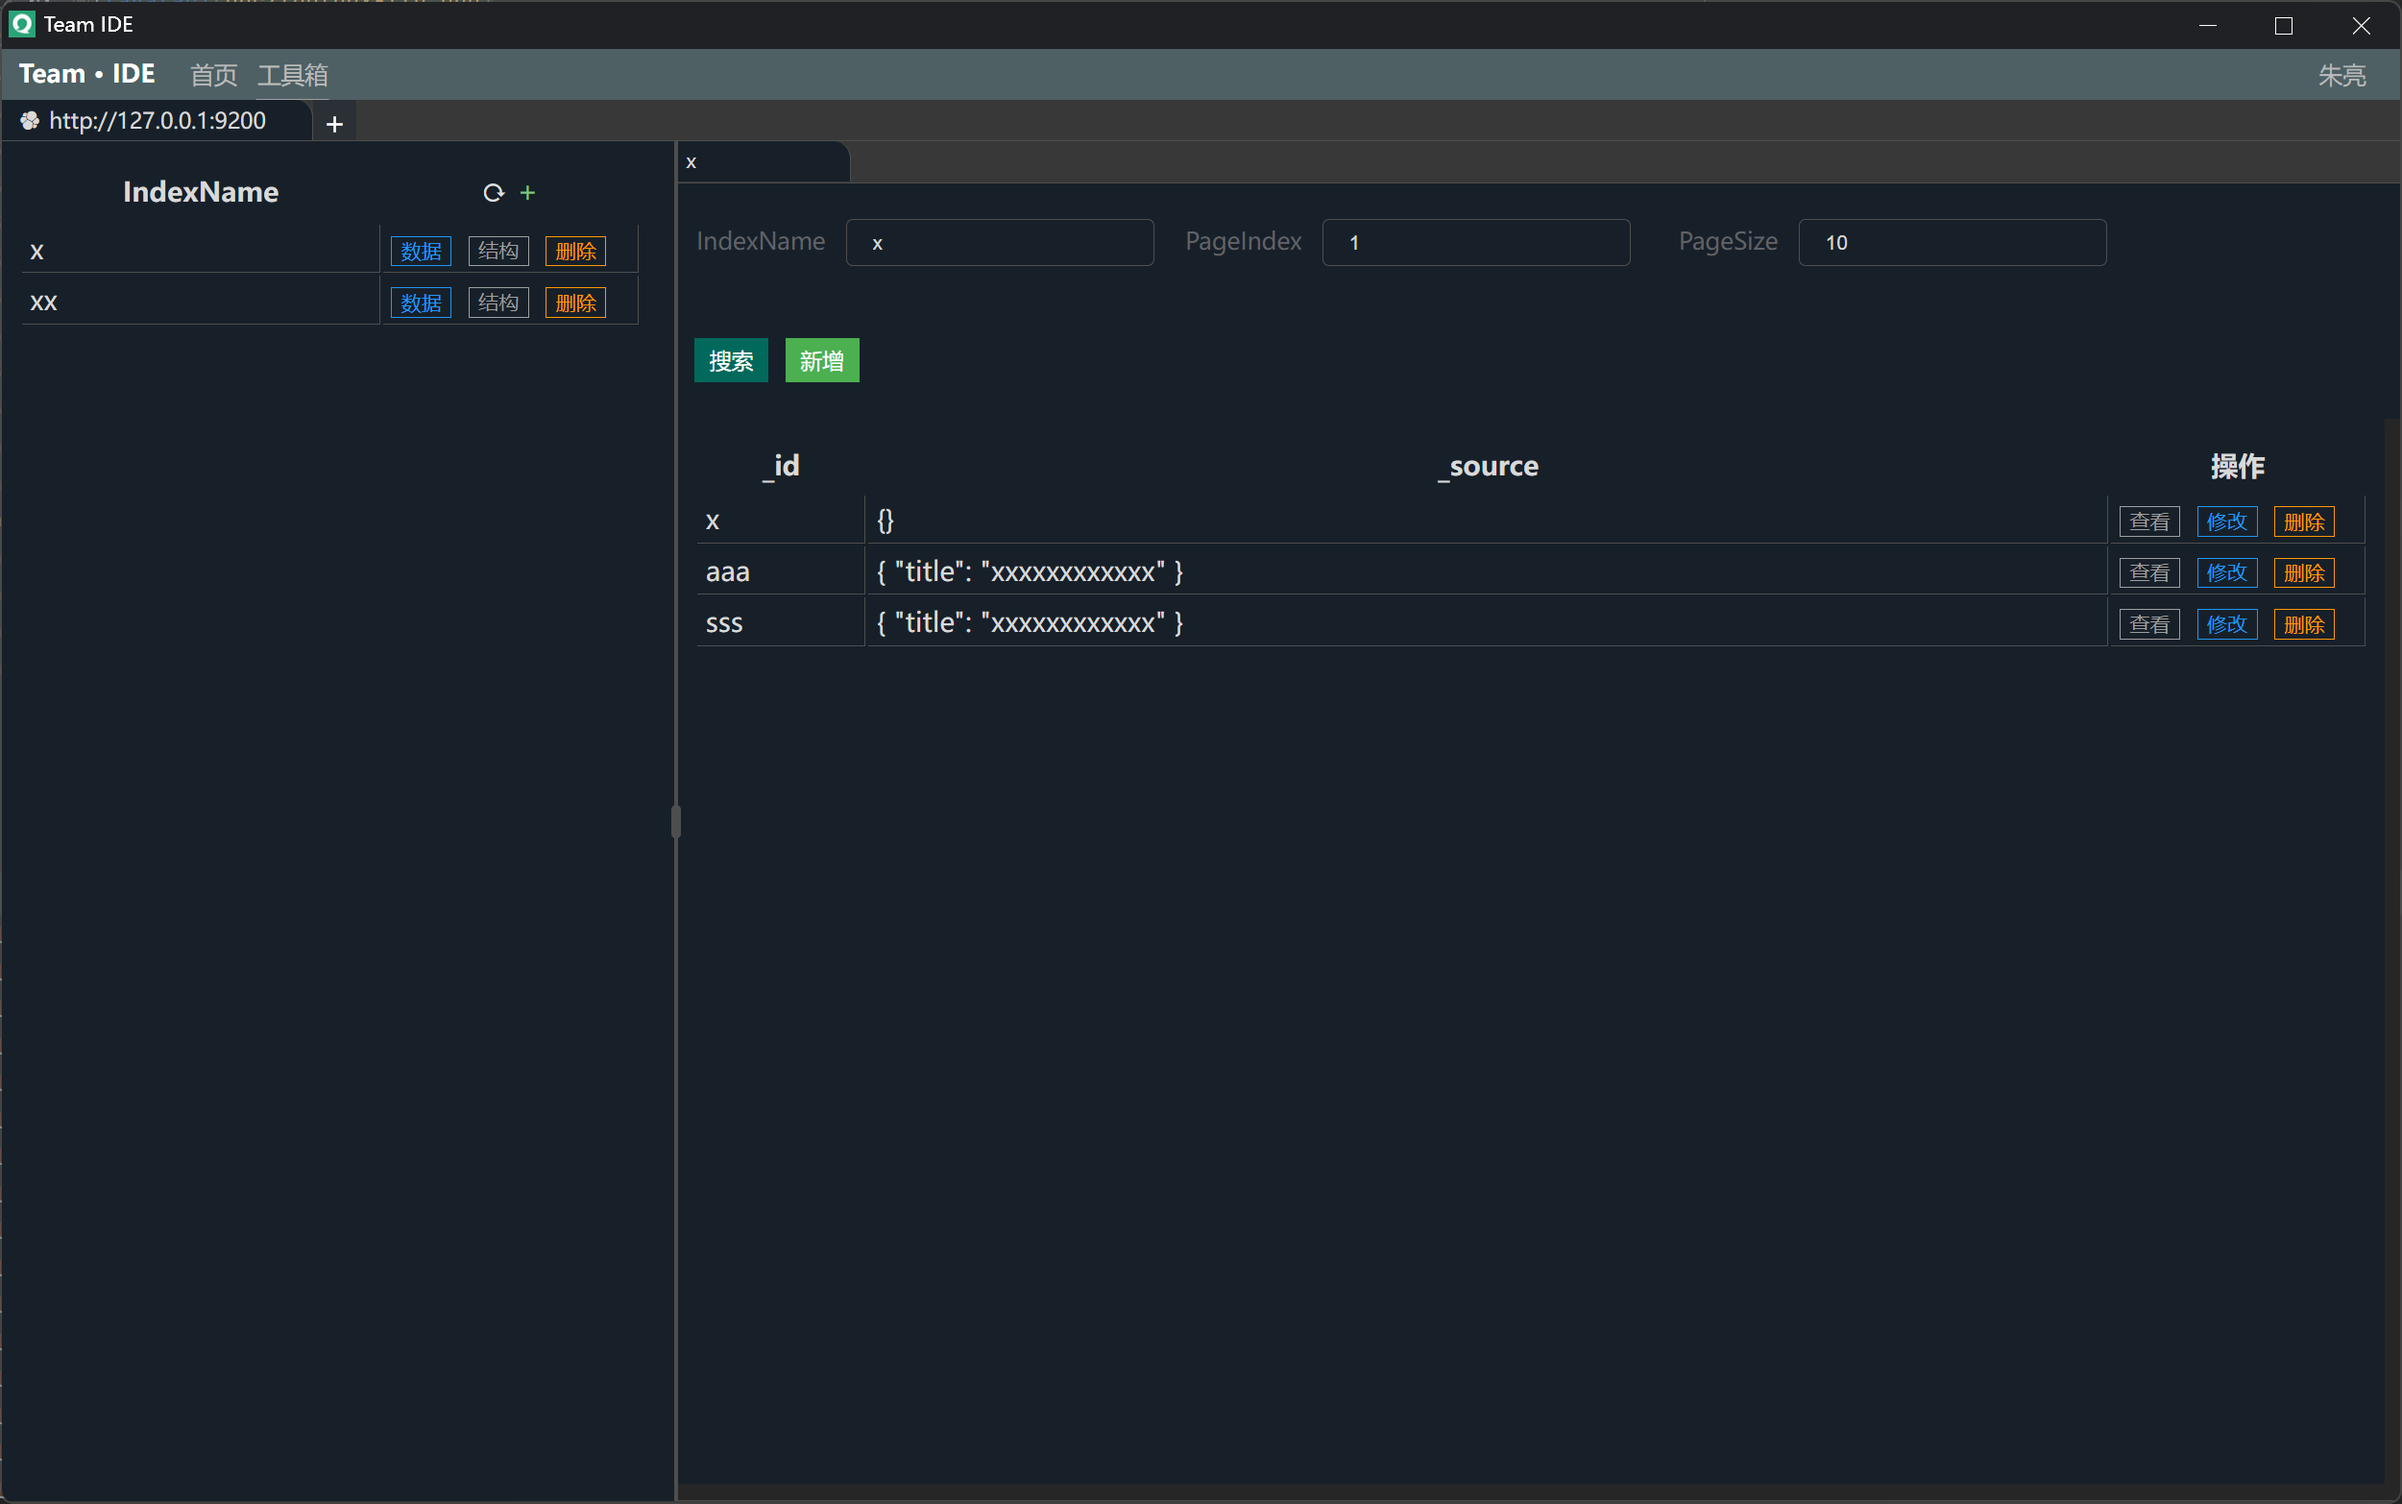
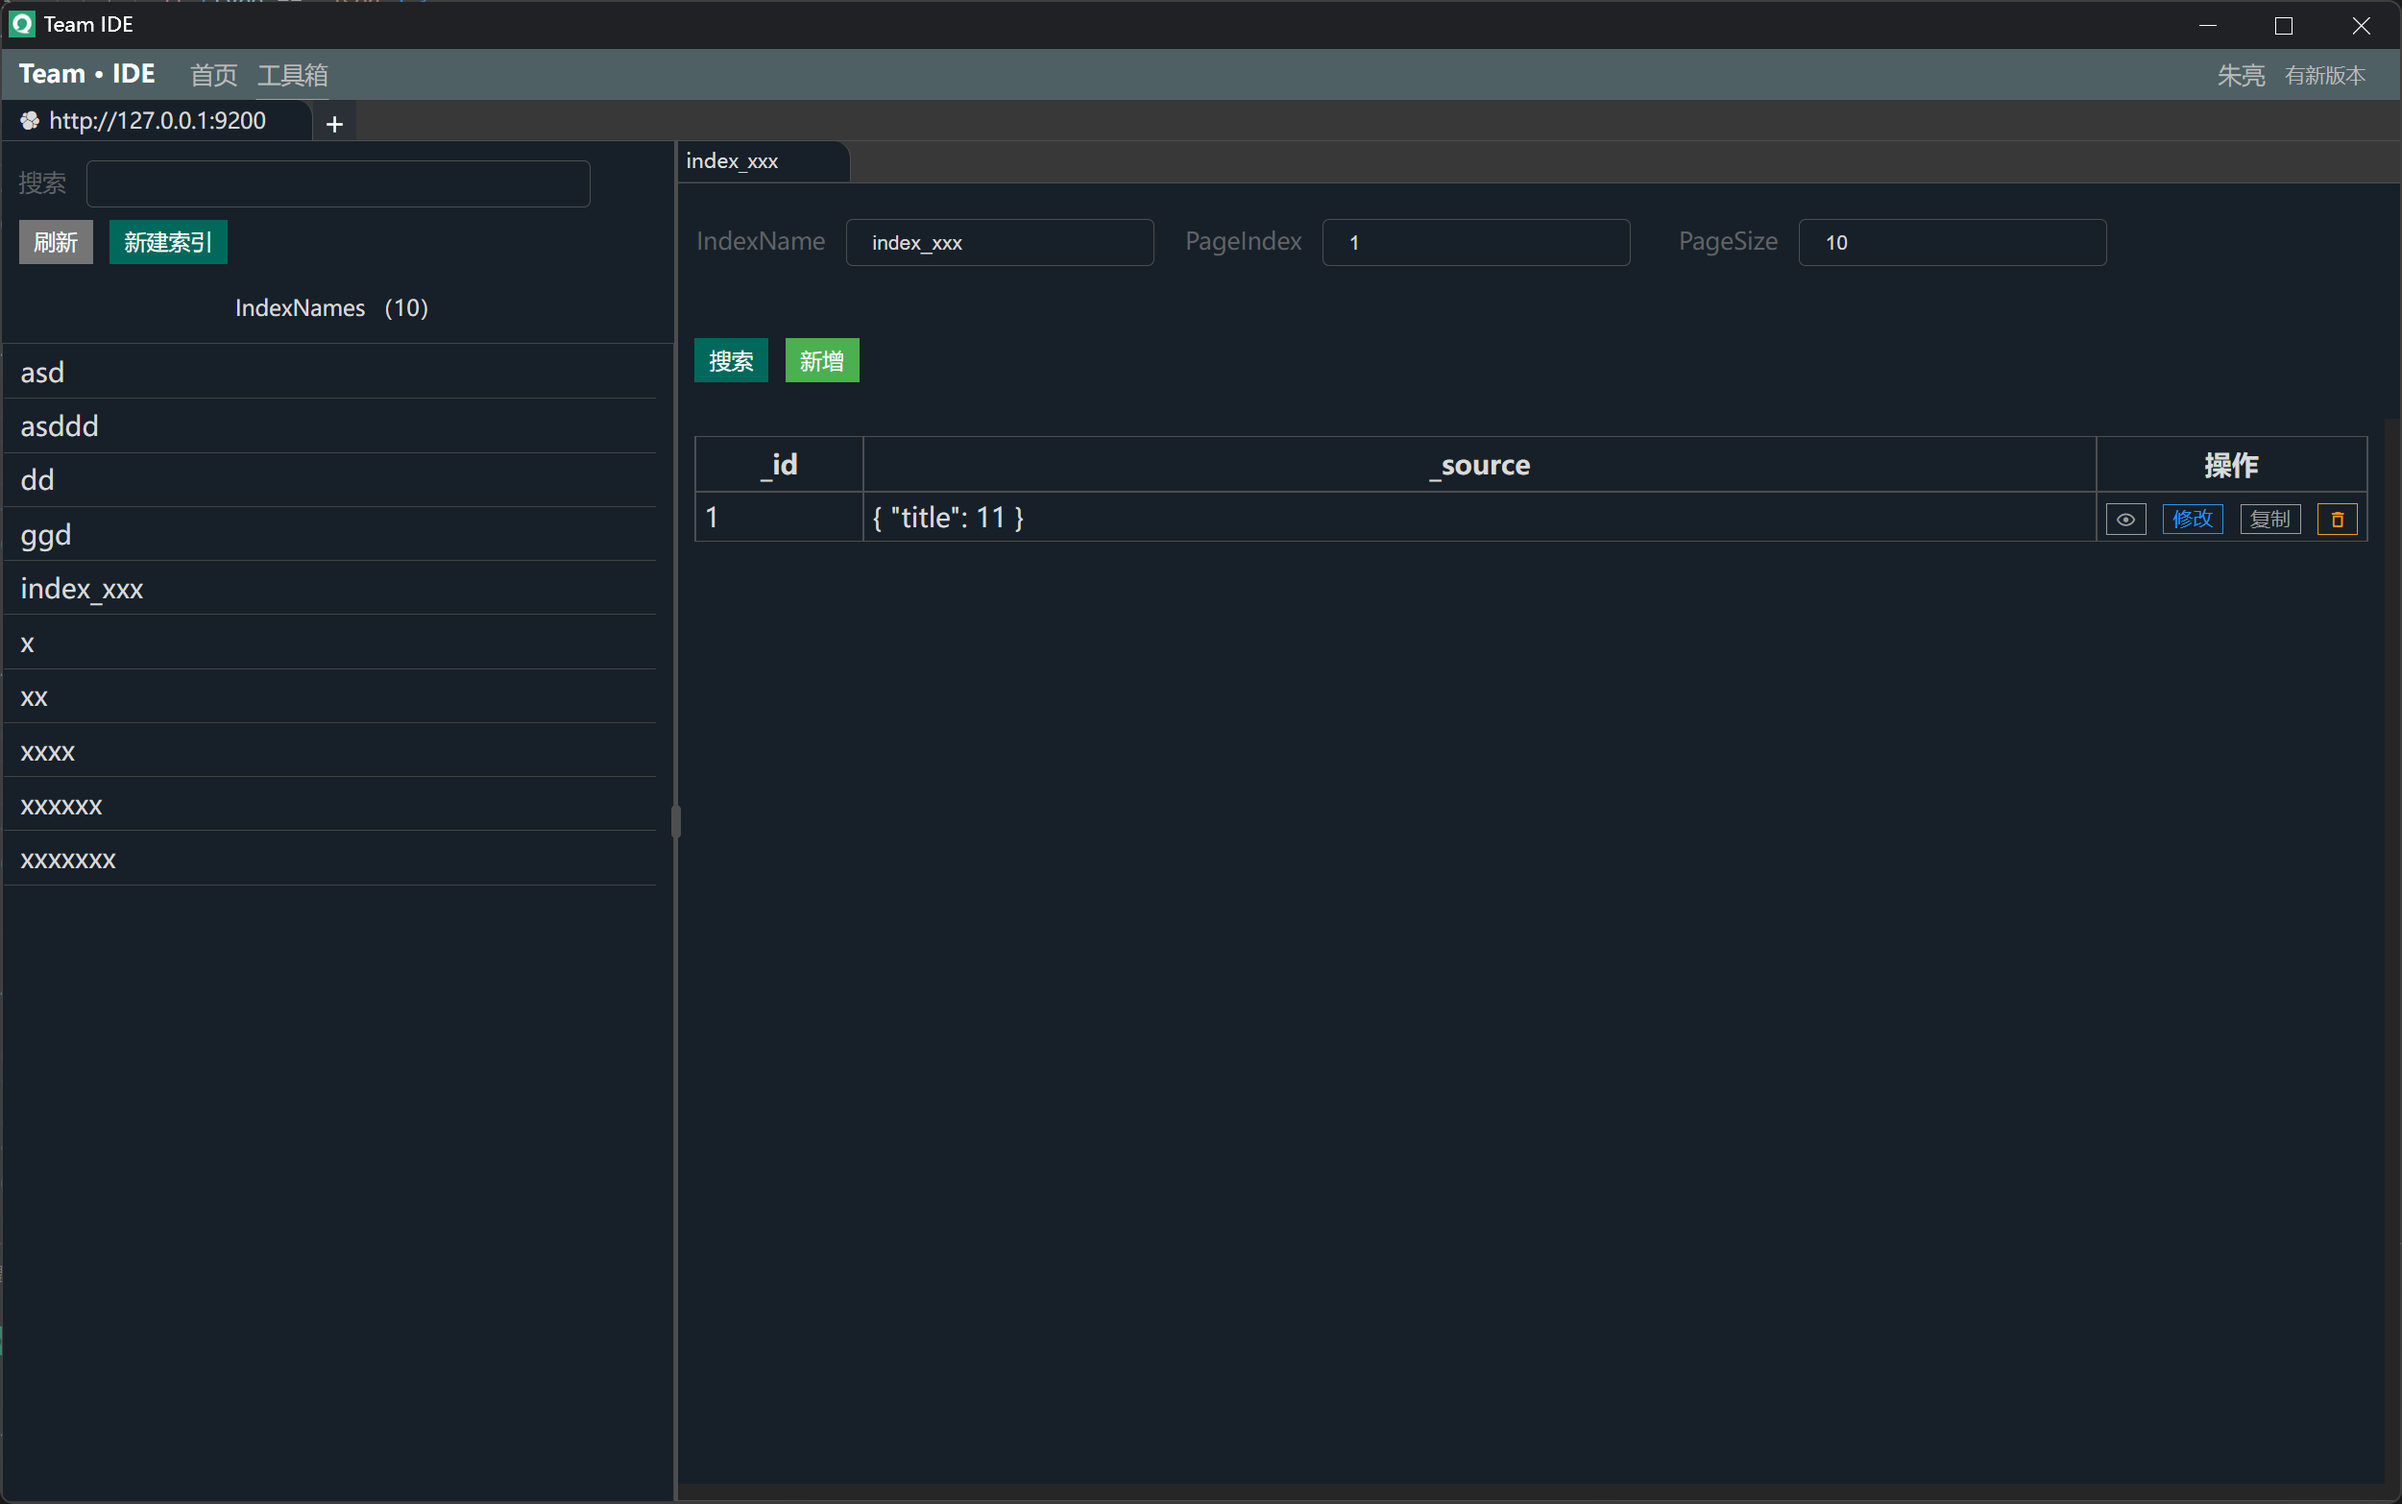
1.2.0
1. 去除废弃代码
2. 部分非必要依赖或简单函数有工具类实现，减轻依赖关系
3. Elasticsearch、Kafka等添加页面过滤功能

diff --git a/html/src/component/toolbox/kafka/TopicData.vue b/html/src/component/toolbox/kafka/TopicData.vue
@@ -2,10 +2,9 @@
   <div class="toolbox-kafka-topic-data">
     <template v-if="ready">
       <tm-layout height="100%">
-        <tm-layout height="140px">
+        <tm-layout height="110px">
           <el-form
-            class="pdt-10"
-            label-width="90px"
+            class="pdt-10 pdlr-10"
             size="mini"
             :inline="true"
             @submit.native.prevent
@@ -17,13 +16,27 @@
               <el-input v-model="pullForm.groupId" />
             </el-form-item>
             <el-form-item label="KeyType">
-              <el-input v-model="pullForm.keyType" />
+              <el-select
+                placeholder="请选择类型"
+                v-model="pullForm.keyType"
+                style="width: 120px"
+              >
+                <el-option label="String" value="string"> </el-option>
+                <el-option label="Long（int64）" value="long"></el-option>
+              </el-select>
             </el-form-item>
             <el-form-item label="ValueType">
-              <el-input v-model="pullForm.valueType" />
+              <el-select
+                placeholder="请选择类型"
+                v-model="pullForm.valueType"
+                style="width: 120px"
+              >
+                <el-option label="String" value="string"> </el-option>
+                <el-option label="Long（int64）" value="long"></el-option>
+              </el-select>
             </el-form-item>
             <el-form-item label="">
-              <div class="pd">
+              <div class="">
                 <div class="tm-btn tm-btn-sm bg-teal-8 ft-13" @click="toPull">
                   拉取
                 </div>
@@ -258,7 +271,7 @@ export default {
       Object.assign(param, this.pullForm);
       let res = await this.wrap.work("pull", param);
       res.data = res.data || {};
-      let msgList = res.data.msgList;
+      let msgList = res.data.msgList || [];
       msgList.forEach((one) => {
         if (this.tool.isNotEmpty(one.value)) {
           try {

diff --git a/html/src/form/validator.js b/html/src/form/validator.js
@@ -119,8 +119,7 @@ let validateField = function (data, field) {
         if (value != null) {
             if (field.isNumber) {
                 data[field.name] = Number(value);
-            }
-            if (field.type == 'json') {
+            } else if (field.type == 'json') {
                 let jsonValue = null;
                 if (field.jsonStringValue != "") {
                     try {

diff --git a/html/src/component/toolbox/elasticsearch/IndexData.vue b/html/src/component/toolbox/elasticsearch/IndexData.vue
@@ -192,7 +192,7 @@ export default {
       };
       let mapping = await this.wrap.getMapping(indexName);
       this.wrap.showDataForm(param, mapping, async (m) => {
-        let flag = await this.doUpdate(m);
+        let flag = await this.doInsert(m);
         return flag;
       });
     },

diff --git a/html/src/component/form/Form.vue b/html/src/component/form/Form.vue
@@ -153,6 +153,7 @@ export default {
             value: jsonString,
             onChange: () => {},
           };
+          one.jsonStringValue = jsonString;
         } else if (type == "jsonView") {
           let json = this.formData[one.bindName];
           let jsonString = null;

diff --git a/html/src/component/toolbox/redis/Data.vue b/html/src/component/toolbox/redis/Data.vue
@@ -363,7 +363,7 @@ export default {
     },
     valueSizeChange() {
       if (this.tool.isNotEmpty(this.form.key)) {
-        this.get(this.form.database, this.form.key);
+        this.initForm();
       }
     },
     addOne(type, one) {

diff --git a/pkg/kafka/sarama.go b/pkg/kafka/sarama.go
@@ -355,11 +355,11 @@ func MessageToProducerMessage(msg *Message) (producerMessage *sarama.ProducerMes
 			if err != nil {
 				return nil, err
 			}
-			bytes := make([]byte, 8)
+			var bytes = make([]byte, 8)
 			binary.BigEndian.PutUint64(bytes, uint64(longV))
 			key = sarama.ByteEncoder(bytes)
 		} else {
-			key = sarama.StringEncoder(msg.Key)
+			key = sarama.ByteEncoder(msg.Key)
 		}
 	}
 	if msg.Value != "" {
@@ -368,7 +368,7 @@ func MessageToProducerMessage(msg *Message) (producerMessage *sarama.ProducerMes
 			if err != nil {
 				return nil, err
 			}
-			bytes := make([]byte, 8)
+			var bytes = make([]byte, 8)
 			binary.BigEndian.PutUint64(bytes, uint64(longV))
 			value = sarama.ByteEncoder(bytes)
 		} else {
@@ -407,16 +407,26 @@ func ConsumerMessageToMessage(keyType string, valueType string, consumerMessage 
 	var value string
 
 	if consumerMessage.Key != nil && len(consumerMessage.Key) > 0 {
-		if strings.ToLower(keyType) == "long" {
-			key = strconv.FormatInt(int64(binary.BigEndian.Uint64(consumerMessage.Key)), 10)
-		} else {
+		if len(consumerMessage.Key) == 8 {
+			Uint64Key := binary.BigEndian.Uint64(consumerMessage.Key)
+			int64Key := int64(Uint64Key)
+			if int64Key >= 0 {
+				key = strconv.FormatInt(int64Key, 10)
+			}
+		}
+		if key == "" {
 			key = string(consumerMessage.Key)
 		}
 	}
 	if consumerMessage.Value != nil && len(consumerMessage.Value) > 0 {
-		if strings.ToLower(valueType) == "long" {
-			value = strconv.FormatInt(int64(binary.BigEndian.Uint64(consumerMessage.Value)), 10)
-		} else {
+		if len(consumerMessage.Value) == 8 {
+			Uint64Value := binary.BigEndian.Uint64(consumerMessage.Value)
+			int64Value := int64(Uint64Value)
+			if int64Value >= 0 {
+				value = strconv.FormatInt(int64Value, 10)
+			}
+		}
+		if value == "" {
 			value = string(consumerMessage.Value)
 		}
 	}

diff --git a/RELEASE.md b/RELEASE.md
@@ -1,12 +1,9 @@
 # 发布说明
 
-## Version v1.1.9 （2022/05/27）
+## Version v1.2.0 （2022/05/27）
 
 发布功能
 
-1. Redis添加导入功能，根据策略导入
-2. 导入string类型数据，直接配置值格式自动导入
-3. 导入list类型数据，配置值数量和值格式自动导入
-4. 导入set类型数据，配置值数量和值格式自动导入
-5. 导入hash类型数据，配置值数量、值key、值value格式自动导入
-6. MAC下右击菜单打不开，会自动隐藏问题修复
+1. 去除废弃代码
+2. 部分非必要依赖或简单函数有工具类实现，减轻依赖关系
+3. Elasticsearch、Kafka等添加页面过滤功能

diff --git a/RELEASE_HISTORY.md b/RELEASE_HISTORY.md
@@ -1,5 +1,13 @@
 # 发布说明
 
+## Version v1.2.0 （2022/05/27）
+
+发布功能
+
+1. 去除废弃代码
+2. 部分非必要依赖或简单函数有工具类实现，减轻依赖关系
+3. Elasticsearch、Kafka等添加页面过滤功能
+
 ## Version v1.1.9 （2022/05/27）
 
 发布功能
